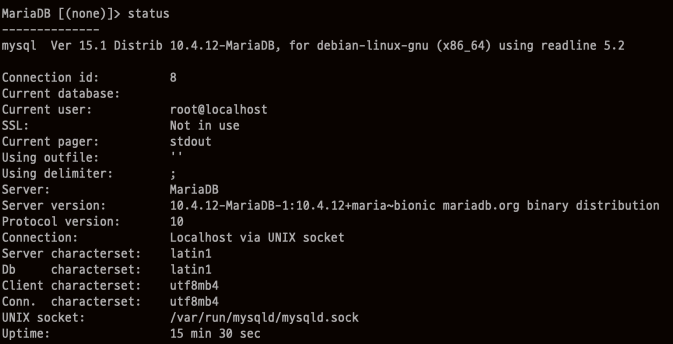
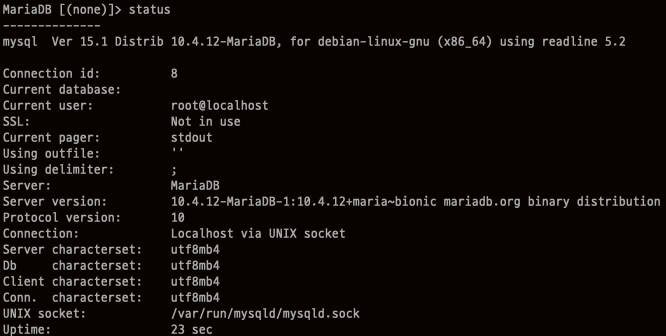
내용 수정

diff --git a/Docker/MariaDB 설치 방법/README.md b/Docker/MariaDB 설치 방법/README.md
@@ -1,17 +1,10 @@
 # Docker를 사용해서 MariaDB 설치하기
 
-## 환경정보
-
-- Mac Catalina
-- Docker Client Version 19.03.5
-- Docker Server engine Version 19.03.5
-- Docker Server containerd Version 1.2.10
-- Docker Server runc Version 1.0.0-rc8+dev
-- Docker Server docker-init Version 0.18.0
-
 ## 1. MariaDB image 다운로드
 
-    docker pull mariadb
+```
+docker pull mariadb
+```
 
 ![1.png](./image/1.png)
 
@@ -21,21 +14,16 @@
 docker run --name mariadb -d -p 3306:3306 -e MYSQL_ROOT_PASSWORD=mariadb mariadb
 ````
 
-- --name은 `Container의 이름` 으로 mariadb로 설정하였습니다.
+- ``--name``은 **Container의 이름** 으로 mariadb로 설정하였습니다.
 
-- -d 는 detached mode로 `Container가 백그라운드로` 실행됩니다.
+- ``-d`` 는 detached mode로 **Container가 백그라운드로** 실행됩니다.
 
-- -p는 Host와 Container의 `포트를 연결`하는 것으로 Host에서  3306 포트로 접속시 Container 3306으로 포워딩 되도록 한 설정 입니다.
+- ``-p``는 **Host와 Container의 포트를 연결**하는 것으로 Host에서  3306 포트로 접속시 Container 3306으로 포워딩 되도록 한 설정 입니다.
 
-- -e는 `Container 내에서 사용할 환경변수로` MYSQL_ROOT_PASSWORD는 root 계정의 password 를 설정하기 위한 환경변수 입니다.
+- ``-e``는 **Container 내에서 사용할 환경변수**로 MYSQL_ROOT_PASSWORD는 root 계정의 password 를 설정하기 위한 환경변수 입니다.
 
-- 마지막으로 mariadb는 위에서 pull한 image 이름 입니다.
+- 마지막에 있는 mariadb는 위에서 pull한 **image 이름** 입니다.
 
-    
-
-Container가 정상적으로 실행되었다면 아래 처럼 나타납니다.
-
-![2.png](./image/2.png)
 
 ## 3. Container bash에 접속
 
@@ -43,25 +31,27 @@ Container가 정상적으로 실행되었다면 아래 처럼 나타납니다.
 docker exec -it mariadb /bin/bash
 ```
 
-- exec를 통해 `Container에 특정 명령을 실행할` 수 있습니다.
+- ``exec``를 통해 **Container에 특정 명령을 실행**할수 있습니다.
 
-- -it는 -i와 -t의 옵션을 합친 것으로 `Container에서 Bash를 사용할 수 있습니다.`
+- ``-it``는 -i와 -t의 옵션을 합친 것으로 **Container에서 Bash를 사용할 수 있습니다.**
 
-- mariadb는 run시 지정한 Container의 이름입니다.
+- mariadb는 run시 지정한 **Container의 이름**입니다.
 
-- /bin/bash는 bash Shell에 연결하겠다는 의미입니다.
+- /bin/bash는 **bash Shell에 연결**하겠다는 의미입니다.
 
     
-    
-     명령을 실행 후 터미널을 보면 root 계정으로 Container에 Bash에 접속한 것을 알 수 있습니다.
+  
+     명령을 실행 후 터미널을 보면 root 계정으로 Container Bash에 접속한 것을 알 수 있습니다.
 
 ![3.png](./image/3.png)
 
-## 3. MariaDB 환경설정
+## 3. MariaDB 접속
 
-드디어 `mysql -u root -p` 를 통해 MariaDB에 접속할 수 있습니다. 비밀번호는 docker run시 환경변수로 설정한 MYSQL_ROOT_PASSWORD의 값입니다.
+드디어 mysql -u root -p 를 통해 MariaDB에 접속할 수 있습니다. **비밀번호는 docker run시 환경변수로 설정한 MYSQL_ROOT_PASSWORD의 값**입니다.
 
-아래 사진을 보면 `status` 명령어를 사용해서 MariaDB의 정보를 볼수 있는데 characterset을 보면 Server와 DB의 characterset이 latin1로 되어 있는 것을 알 수 있습니다. latin1에서는 한글이 깨질 수 있기 때문에 UTF8로 변경해 줘야 합니다.
+## 4. MariaDB characterset 설정
+
+`status` 명령어를 사용해서 MariaDB의 설정정보를 볼수 있는데 characterset을 보면 **Server와 DB의 characterset이 latin1**로 되어 있는 것을 알 수 있습니다. latin1에서는 한글이 깨질 수 있기 때문에 **UTF8로 변경**해 줘야 합니다.
 
 ![4.png](./image/4.png)
 
@@ -88,6 +78,7 @@ Container bash에 접속합니다.
 docker exec -it mariadb /bin/bash
 ```
 
-`mysql -u root -p` 를 통해 MariaDB에 접속해서 다시 Characterset을 확인해 보면 Server와 DB 모두 UTF8로 변경된 것을 알 수 있습니다.
+MariaDB에 접속해서 다시 Characterset을 확인해 보면 **Server와 DB 모두 UTF8로 변경**된 것을 알 수 있습니다.
 
 ![5](./image/5.png)
+

diff --git a/Spring/Spring Boot/springboot-interceptor-preHandle/README.md b/Spring/Spring Boot/springboot-interceptor-preHandle/README.md
@@ -4,17 +4,14 @@
  - JDK 1.8
  - SpringBoot 2.2.4.RELEASE
 
-예제코드는 [github](https://github.com/hongji3354/blog-code/tree/master/springboot/springboot-interceptor) 에  있습니다.
+> 예제코드는 [github](https://github.com/hongji3354/blog-code/tree/master/Spring/Spring%20Boot/springboot-interceptor-preHandle) 에  있습니다.
 
-## preHandle의 return값이 true 일때
-**Controller로 요청이 넘어가며**, Controller에서 요청을 처리하기 때문에 postHandle 메서드와 afterCompletion 메서드가 실행된다. 
+Interceptor를 구현하기 위해 HandlerInterceptor를 상속받으면 preHandle, postHandle, afterCompletion 3개의 메소드를 오버라이드 합니다.  그 중 ``preHandle는 다른 2개의 메소드와 다르게 Boolean인 return 값을 가지고 있습니다.`` 그렇다면 true/false에 따라 동작방식이 다르다는 것인데, 무엇이 다른지 확인해 보겠습니다.
 
-## preHandle의 return값이 false 일때
-**Controller로 요청이 넘어가지 않으며**, Controller로 요청이 넘어가지 않기 때문에 postHandle 메서드와 afterCompletion 메서드가 실행되지 않는다.
-
-## 예제
+## 예제 코드
 
 ### 1. Interceptor 생성
+
 ```
 @Component
 @Slf4j
@@ -38,8 +35,9 @@ public class UserInterceptor implements HandlerInterceptor {
 }
 ```
 
-## 2. interceptor 등록
-/user로 들어오는 URL은 모두 userInterceptor를 거쳐가도록 설정하였다.
+### 2. interceptor 등록
+
+WebMvcConfigurer를 상속받아서 addInterceptors 메서드를 오버라이드 하여 ``/user로 들어오는 URL은 모두 userInterceptor를 거쳐가도록 설정``하였습니다.
 ```
 @Configuration
 public class WebMvcConfig implements WebMvcConfigurer {
@@ -55,7 +53,8 @@ public class WebMvcConfig implements WebMvcConfigurer {
 }
 ```
 
-## 3. Controller
+### 3. Controller
+
 ```
 @RestController
 @Slf4j
@@ -71,11 +70,15 @@ public class TestController {
 
 ## 결과
 
-preHandle의 return 값이 true일 경우 preHandle -> Controller -> postHandle -> afterCompletion 순으로 실행된 것을 알 수 있다.
+- preHandle의 return 값이 true일 경우
+  - Controller로 요청이 전달되며, postHandle와 afterCompletion이 모두 실행된 것을 알 수 있습니다.
 
 ![1](./image/1.PNG)
 
-preHandle의 return 값이 false 경우 preHandle에서 요청이 끝난 것을 알 수 있다.
+- preHandle의 return 값이 false 경우 
+  - Controller로 요청이 전달되지 않은 것을 알 수 있습니다.
 
 ![2](./image/2.PNG)
+
+정리하면 ``preHandle의 return 값이 true일 경우 Controller로 요청이 전달되며, false 경우 요청이 전달되지 않는다는 것을 알 수 있습니다.``
 

diff --git a/DB/MariaDB/CentOS7에 MariaDB 설치하기/README.md b/DB/MariaDB/CentOS7에 MariaDB 설치하기/README.md
@@ -9,11 +9,7 @@
 
 ## 1. yum Repository 추가
 
-아래 홈페이지에 접속하시면 OS와 MairaDB Version에 따라 Repository 추가 방법과 설치방법을 제공해 줍니다.
-
-[Setting up MariaDB Repositories](https://downloads.mariadb.org/mariadb/repositories/#mirror=hosting90)
-
-
+[Setting up MariaDB Repositories](https://downloads.mariadb.org/mariadb/repositories/#mirror=hosting90)에 접속하시면 OS와 MairaDB Version에 따라 Repository 추가 방법과 설치방법을 제공해 줍니다.
 
 저는 CentOS7에 MariaDB 10.4 를 설치할 예정이므로 아래와 같이 선택하였습니다.
 
